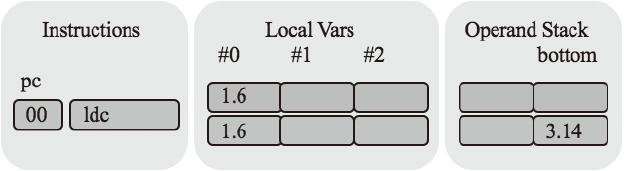
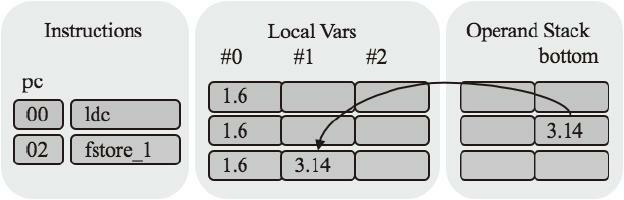
README

Changed region(s): [[0.0, 0.0877, 0.9744, 0.9064], [0.0609, 0.117, 0.2436, 0.2339]]

diff --git a/ch04/ch04.md b/ch04/ch04.md
@@ -40,11 +40,20 @@
      10 return
      ------
      
-   ![Init](images/init.jpg "帧的初始状态")
-   circumference（）方法的局部变量
-   表大小是3，操作数栈深度是2。假设调用方法时，传递给它的参数
-   是1.6f，方法开始执行前，帧的状态如图所示
-   
-   ![Init](images/step2.jpg "第二步")
-   第一条指令是ldc，它把3.14f推入栈顶，如图所示。
+![Init](images/init.jpg "帧的初始状态")
+
+circumference（）方法的局部变量
+表大小是3，操作数栈深度是2。假设调用方法时，传递给它的参数
+是1.6f，方法开始执行前，帧的状态如图所示
+
+![step1](images/step1.jpg "第一步")
+
+第一条指令是ldc，它把3.14f推入栈顶，如图所示。
+
+![step2](images/step2.jpg "第二步")
+
+接着是fstore_1指令，它把栈顶的3.14f弹出，放到#1号局部变量中
+
+![step3](images/step3.jpg "第三步")
   
+fconst_2指令把2.0f推到栈顶
